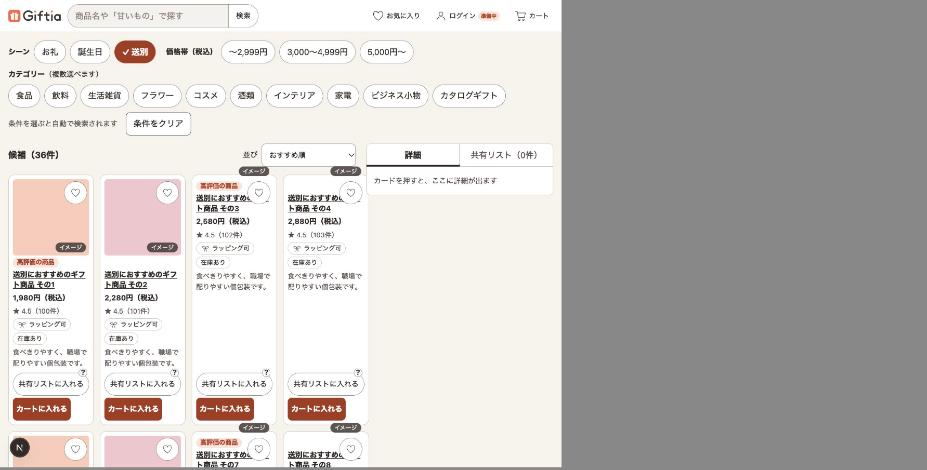
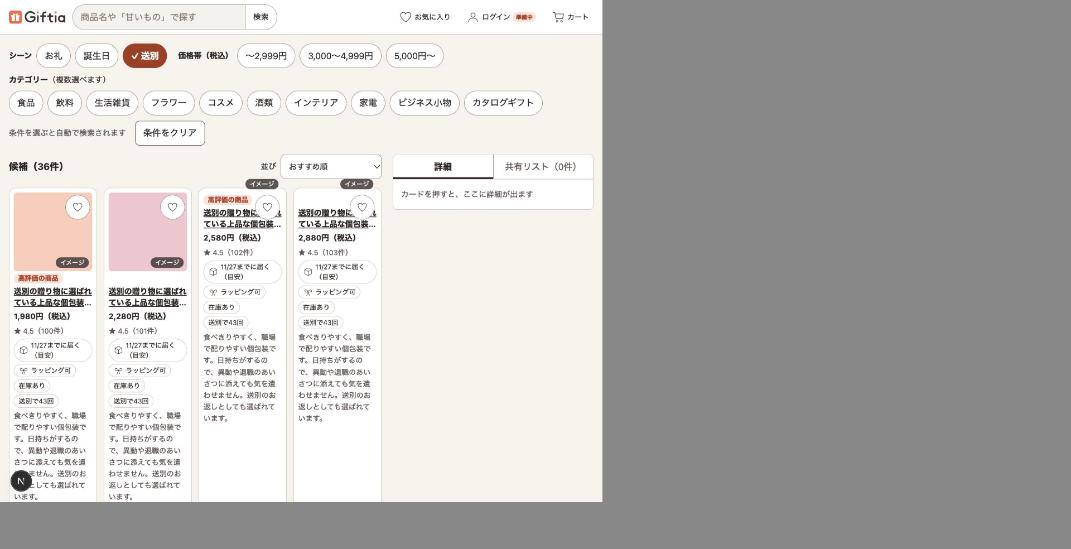
[画面] 列を minmax(0, 1fr) にして、中身で列が広がらないようにする。本番並みの長さで写真を撮り直す。Refs #684

Changed region(s): [[0.0, 0.0, 0.6041, 1.0]]

diff --git a/frontend/src/components/candidates.module.css b/frontend/src/components/candidates.module.css
@@ -2,10 +2,10 @@
 /* #684: 列の数は画面の幅でなく一覧の幅で決める（右の欄 .rcol 360px の分だけ一覧が狭くなるため）。
    境の幅 = n 列 × 154px + (n-1) × 12px（カード 1 枚 154px 以上・すき間 12px）: 3 列 486px・4 列 652px・5 列 818px */
 .cardsbox { container-type: inline-size; min-width: 0; }
-.cards { list-style: none; margin: 0; padding: 0; display: grid; grid-template-columns: repeat(2, 1fr); gap: 12px; }
-@container (min-width: 486px) { .cards { grid-template-columns: repeat(3, 1fr); } }
-@container (min-width: 652px) { .cards { grid-template-columns: repeat(4, 1fr); } }
-@container (min-width: 818px) { .cards { grid-template-columns: repeat(5, 1fr); } }
+.cards { list-style: none; margin: 0; padding: 0; display: grid; grid-template-columns: repeat(2, minmax(0, 1fr)); gap: 12px; }
+@container (min-width: 486px) { .cards { grid-template-columns: repeat(3, minmax(0, 1fr)); } }
+@container (min-width: 652px) { .cards { grid-template-columns: repeat(4, minmax(0, 1fr)); } }
+@container (min-width: 818px) { .cards { grid-template-columns: repeat(5, minmax(0, 1fr)); } }
 .card { position: relative; border: 1px solid var(--line); border-radius: 12px; background: var(--paper); font-size: 14px; }
 a.name { color: inherit; }
 /* NF-46: 商品名リンクのタップ領域を縦 44px 以上に（padding を足し、同じだけ負の margin で戻すので、文字の大きさ・並びは変わらない） */

diff --git a/02_プロジェクト/giftia-ui-renewal/evidence/684_R01列_測定.md b/02_プロジェクト/giftia-ui-renewal/evidence/684_R01列_測定.md
@@ -1,16 +1,29 @@
-# #684 検索結果（送別）の列の数と右の欄の重なり（Mi-rin・2026-11-22）
+# #684 検索結果（送別）の列の数と右の欄の重なり（Mi-rin・2026-11-22 撮り直し版）
 
 境の式: 154px × n ＋ 12px × (n − 1)。一覧の幅 818px 以上で 5 列、652px 以上で 4 列、486px 以上で 3 列、485px 以下で 2 列。
-測定は、検索結果ページを、指定の幅の iframe に入れて行った（モック API の 12 件）。
+列は `repeat(n, minmax(0, 1fr))`（中身の長さで列が広がらない）。
 
-| 画面の幅 | 一覧の幅 | 列 | カード最小幅 | 一覧の右端 | 右の欄の左端 | 重なり |
-| --- | --- | --- | --- | --- | --- | --- |
-| 1440 | 820 | 5 | 164.3 | 940 | 960 | なし |
-| 1366 | 820 | 5 | 164.3 | 903 | 923 | なし |
-| 1280 | 820 | 5 | 164.3 | 860 | 880 | なし |
-| 1080 | 668 | 4 | 164.3 | 684 | 704 | なし |
-| 900 | 488 | 3 | 164.3 | 504 | 524 | なし |
-| 480 | 448 | 2 | 218 | 464 | （欄なし） | なし |
-| 375 | 343 | 2 | 165.7 | 359 | （欄なし） | なし |
+測定は、検索結果ページを、指定の幅の iframe に入れて行った。モック API の 12 件は、本番並みの長さにした。
+- 商品名 41 字
+- 札: 「11/27までに届く（目安）」「ラッピング可」「在庫あり」「送別で43回」
+- 理由の文 3 行以上（幅 154px で 8 行）
+- ボタン: 「共有リストに入れる」「カートに入れる」
 
-横スクロールは 7 幅とも出ていない。写真は同じフォルダの `684_R01列_<幅>px.jpg`。
+| 画面の幅 | 一覧の幅 | 列 | カード幅 | 一覧の右端 | 右の欄の左端 | 欄との重なり | 横スクロール |
+| --- | --- | --- | --- | --- | --- | --- | --- |
+| 1440 | 820 | 5 | 154.4 | 940 | 960 | なし | なし |
+| 1366 | 820 | 5 | 154.4 | 903 | 923 | なし | なし |
+| 1288 | 820 | 5 | 154.4 | 864 | 884 | なし | なし |
+| 1280 | 820 | 5 | 154.4 | 860 | 880 | なし | なし |
+| 1080 | 668 | 4 | 158 | 684 | 704 | なし | なし |
+| 900 | 488 | 3 | 154.7 | 504 | 524 | なし | なし |
+| 480 | 448 | 2 | 218 | 464 | （欄なし） | なし | なし |
+| 375 | 343 | 2 | 165.7 | 359 | （欄なし） | なし | なし |
+
+## カードの中のはみ出し
+
+- 文字・札・価格・ボタン（共有リストに入れる・カートに入れる）は、すべてカードの枠の中に収まっている（左右とも 9px の余白）。
+- 1 か所だけ、ヘルプの「?」ボタン（`pick-module` の `.help`、押せる範囲 44px）の右端が、カードの枠より 1px 外に出ている。幅 154.4px のカードで出る。見える「?」の印は枠の中。12 枚すべて同じ。
+- カードの中身を変えるのは仕様の外のため、直していない。
+
+写真: 同じフォルダの `684_R01列_<幅>px.jpg`。1280px の下の段（ボタンまで）は `684_R01列_1280px_下の段.jpg`。
